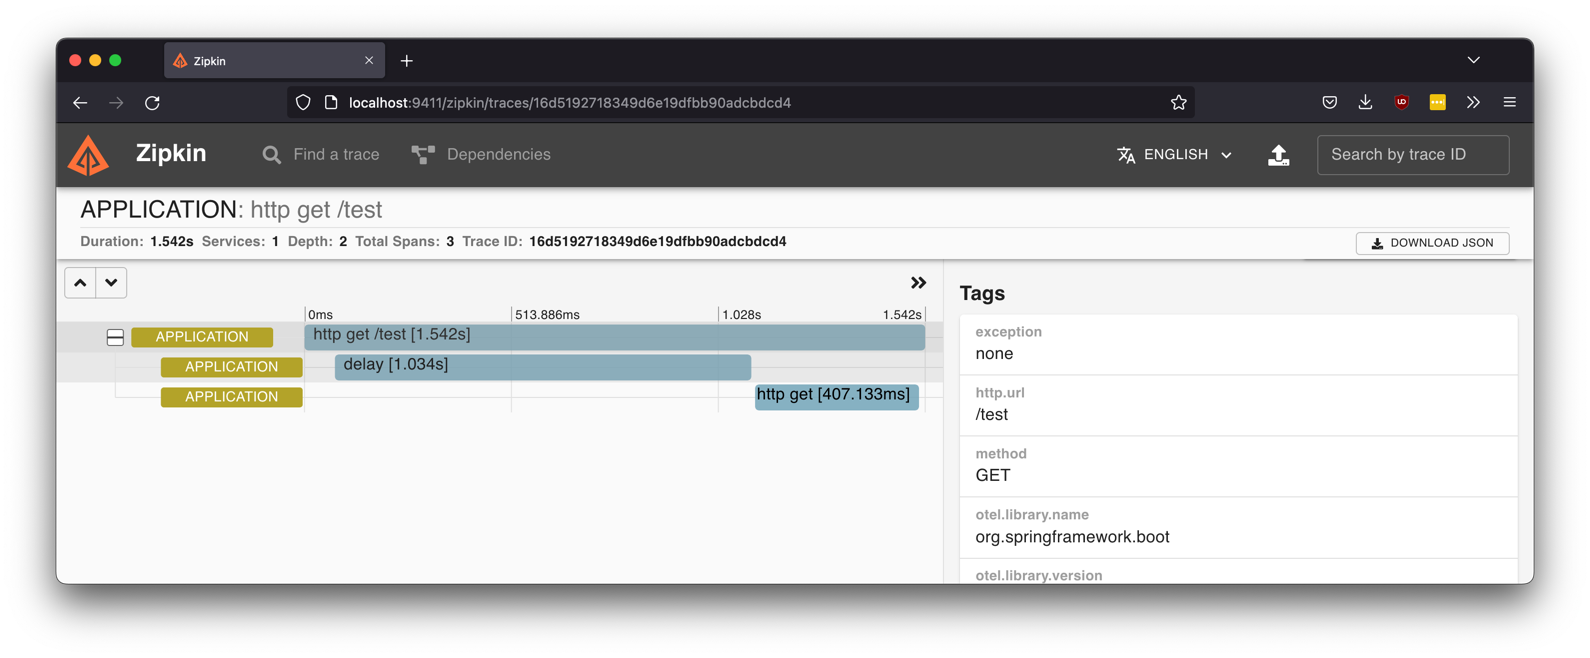
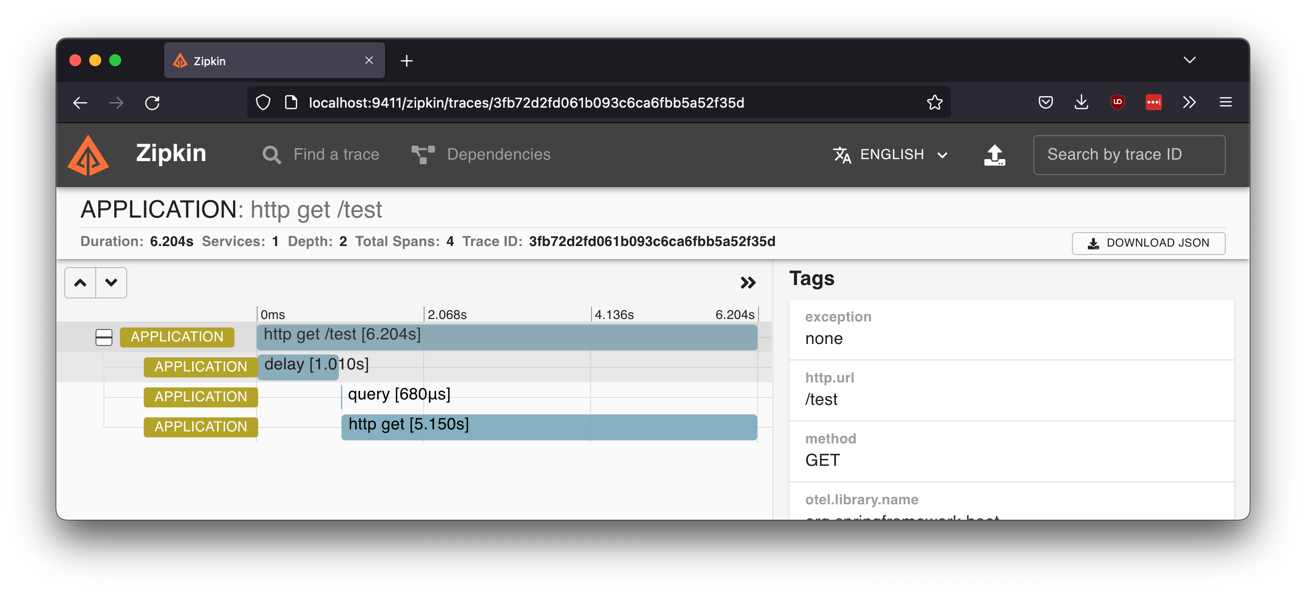
Add R2DBC Tracing (#1)
* Add R2DBC example tracing (experimental)

* Update R2DBC micrometer version

* Update R2DBC micrometer version 1.0.2 snapshot

* Add sample traces R2DBC call

* Rename variables

* Update README.md

* Update README.md pic

* Typo README.md

Changed region(s): [[0.0306, 0.0303, 0.9801, 0.9394]]

diff --git a/src/main/kotlin/com/example/tracing/TracingApplication.kt b/src/main/kotlin/com/example/tracing/TracingApplication.kt
@@ -4,15 +4,17 @@ import io.micrometer.context.ContextSnapshot
 import io.micrometer.observation.Observation
 import io.micrometer.observation.ObservationRegistry
 import io.micrometer.observation.contextpropagation.ObservationThreadLocalAccessor
-import kotlinx.coroutines.delay
+import kotlinx.coroutines.*
+import kotlinx.coroutines.flow.*
 import kotlinx.coroutines.reactor.awaitSingle
 import kotlinx.coroutines.reactor.awaitSingleOrNull
 import kotlinx.coroutines.reactor.mono
-import kotlinx.coroutines.runBlocking
-import kotlinx.coroutines.withContext
 import org.slf4j.LoggerFactory
 import org.springframework.boot.autoconfigure.SpringBootApplication
 import org.springframework.boot.runApplication
+import org.springframework.data.annotation.Id
+import org.springframework.data.relational.core.mapping.Table
+import org.springframework.data.repository.kotlin.CoroutineCrudRepository
 import org.springframework.web.bind.annotation.GetMapping
 import org.springframework.web.bind.annotation.RestController
 import org.springframework.web.reactive.function.client.WebClient
@@ -29,6 +31,7 @@ fun main(args: Array<String>) {
 @RestController
 class Controller(
 	val observationRegistry: ObservationRegistry,
+	val todoRepo: ToDoRepository,
 	webClientBuilder: WebClient.Builder
 ) {
 
@@ -50,14 +53,28 @@ class Controller(
 			delay(1.seconds)
 		}
 
+		// Sample traced DB call
+		val dbTodos = todoRepo.findAll().toList()
+
 		// make web client call and return response
-		return webClient.get()
+		val externalTodos =  webClient.get()
 			.uri("/todos/1")
 			.retrieve()
 			.bodyToMono(String::class.java)
-			.awaitSingle();
+			.awaitSingle()
+
+		return "${dbTodos.size} $externalTodos"
 	}
 }
+
+@Table("todo")
+data class ToDo(
+	@Id
+	val id: Long = 0,
+	val title: String,
+)
+
+interface ToDoRepository : CoroutineCrudRepository<ToDo, Long>
 
 suspend inline fun observeCtx(crossinline f: () -> Unit) {
 	Mono.deferContextual { contextView ->

diff --git a/README.md b/README.md
@@ -1,13 +1,16 @@
-# Micrometer Tracing with Spring Boot Webflux and Kotlin
+# Micrometer Tracing with Spring Boot WebFlux and Kotlin
 
 This repository contains a simple demo application showing the usage of [Micrometer Tracing](https://micrometer.io/docs/tracing).
 
 It contains the following features:
-- Spring Boot 3 Webflux
-- Micrometer Tracing
-- Zipkin tracing export
+- [Spring Boot 3 Webflux](https://docs.spring.io/spring-framework/docs/current/reference/html/web-reactive.html)
+- [Micrometer Tracing](https://micrometer.io/docs/tracing)
+- [Zipkin tracing export](https://github.com/open-telemetry/opentelemetry-java/tree/main/exporters/zipkin)
+- [R2DBC Database Tracing](https://github.com/spring-projects-experimental/r2dbc-micrometer-spring-boot)
 - Reactive logs with tracing data
 - Custom observations in reactive streams
+
+![zipkin.png](docs%2Fimages%2Fzipkin.png)
 
 ## Requirements
 - JVM 1.7+
@@ -22,5 +25,3 @@ It contains the following features:
    - http://localhost:8080/test
 3. Open Zipkin UI and query for traces
    - http://localhost:9411/zipkin/
-
-![zipkin.png](docs%2Fimages%2Fzipkin.png)
